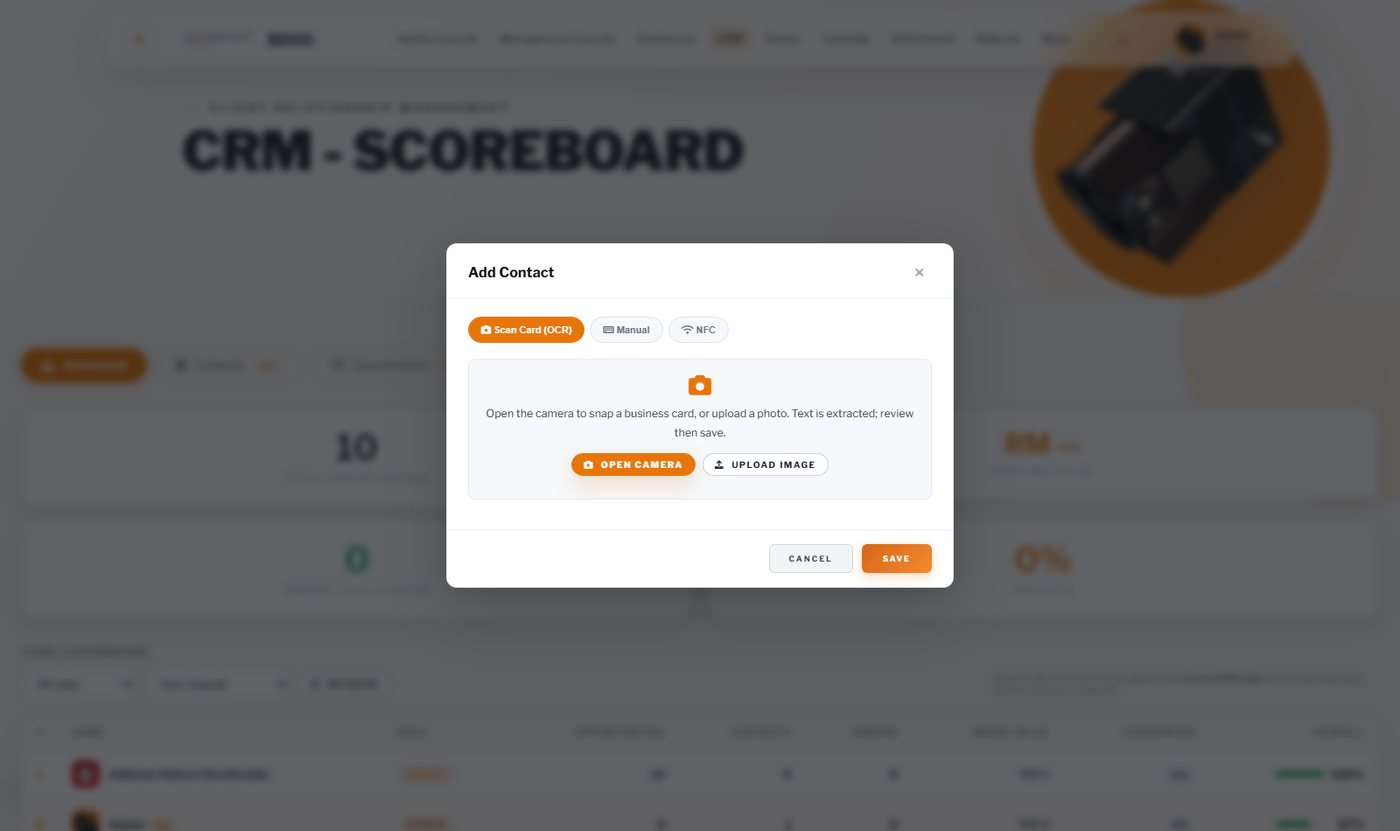
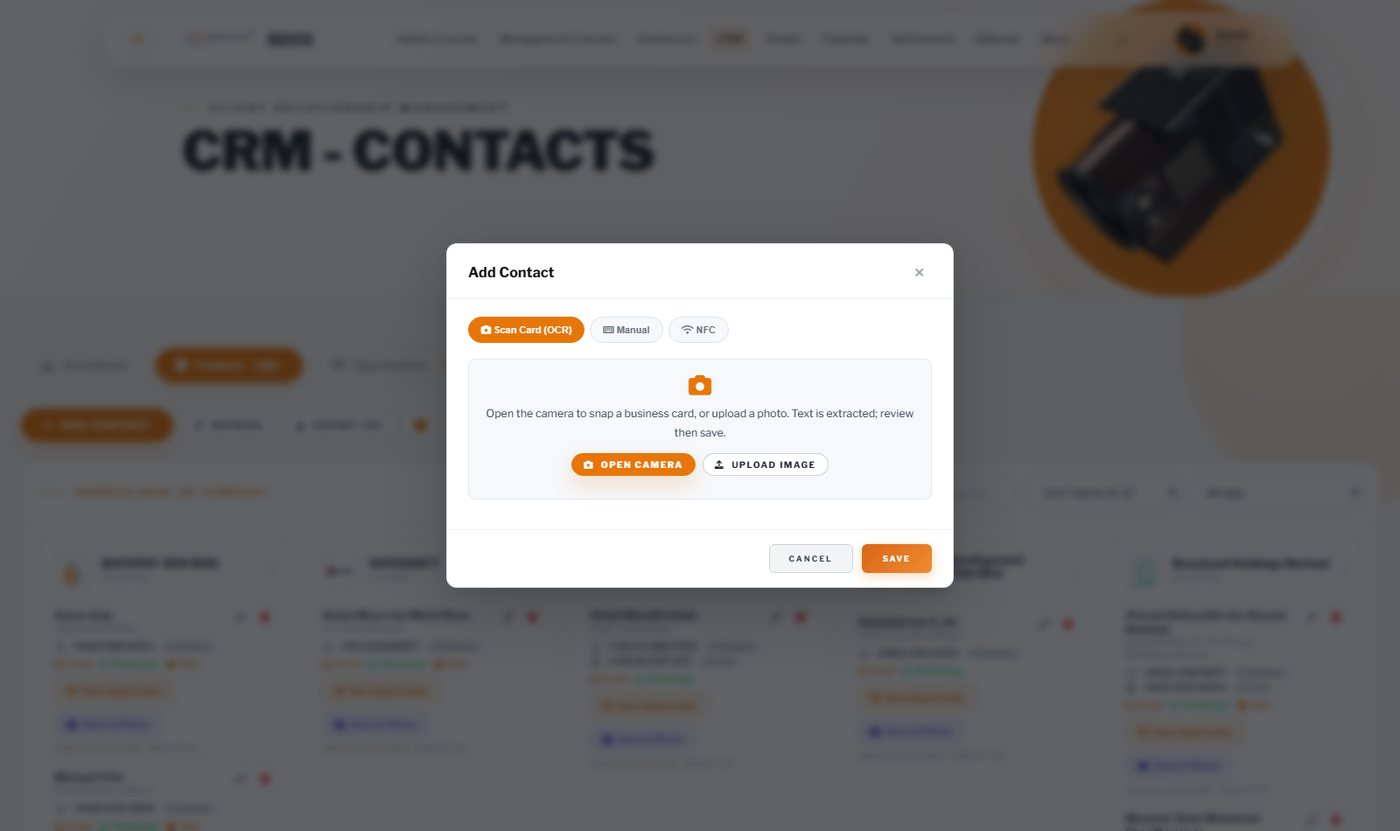
Add the CRM contact list and tender intake screens to BDOS
The contact-capture shot now includes the contacts board behind the modal, so
the feature reads in context, and a new screen shows tender intake: upload the
RFP and the title, agency and reference number are detected from it. The BDOS
slideshow is now ten screens and the description covers both.

diff --git a/showcase.html b/showcase.html
@@ -340,13 +340,13 @@ footer{background:var(--dark);color:#fff;padding:64px 9% 26px;}
     </div>
 
     <div class="masonry-item reveal" data-cat="photography"
-         data-pages="UDE_BDOS_1.jpg|UDE_BDOS_2.jpg|UDE_BDOS_3.jpg|UDE_BDOS_4.jpg|UDE_BDOS_5.jpg|UDE_BDOS_6.jpg|UDE_BDOS_7.jpg|UDE_BDOS_8.jpg|UDE_BDOS_9.jpg"
+         data-pages="UDE_BDOS_1.jpg|UDE_BDOS_2.jpg|UDE_BDOS_3.jpg|UDE_BDOS_4.jpg|UDE_BDOS_5.jpg|UDE_BDOS_6.jpg|UDE_BDOS_7.jpg|UDE_BDOS_8.jpg|UDE_BDOS_9.jpg|UDE_BDOS_10.jpg"
          data-label="BDOS — Business Development Portal"
          data-link="https://bdos.uzmadigitalearth.app/"
          data-link-label="Visit Live Site">
       <div class="mi-media">
         <img src="UDE_BDOS_1.jpg" alt="BDOS — Business Development Portal">
-        <div class="mi-badge">9 pages</div>
+        <div class="mi-badge">10 pages</div>
         <div class="mi-overlay">
           <div class="mi-icon"><svg width="19" height="19" viewBox="0 0 24 24" fill="none" stroke="currentColor" stroke-width="2"><circle cx="11" cy="11" r="8"/><path d="m21 21-4.35-4.35"/></svg></div>
           <div class="mi-label">View Slideshow</div>
@@ -362,9 +362,10 @@ footer{background:var(--dark);color:#fff;padding:64px 9% 26px;}
           <tr><td class="mi-meta-label">Database</td><td class="mi-meta-value">AWS PostgreSQL · psycopg2 pooling</td></tr>
           <tr><td class="mi-meta-label">Auth</td><td class="mi-meta-value">JWT · bcrypt password hashing</td></tr>
           <tr><td class="mi-meta-label">Contact Capture</td><td class="mi-meta-value">Scan Card (OCR) · Manual · NFC tap</td></tr>
+          <tr><td class="mi-meta-label">Tender Intake</td><td class="mi-meta-value">Upload RFP → auto-detect title, agency &amp; reference</td></tr>
           <tr><td class="mi-meta-label">AI</td><td class="mi-meta-value">Gemini vision → Claude vision fallback → on-device OCR</td></tr>
           <tr><td class="mi-meta-label">Deployment</td><td class="mi-meta-value">Docker · GitHub Actions → EC2</td></tr>
-          <tr><td class="mi-meta-label">Description</td><td class="mi-meta-value desc">A full business-development operating system for Geospatial AI, replacing scattered spreadsheets with one hub. Its standout feature is <strong>contact capture</strong>: snap or upload a business card and the AI reads it — Gemini vision first, falling back to Claude vision and then on-device OCR — then auto-fills name, company, title, email, mobile, office phone, website and address for review before saving, even fetching the company logo from the card crop or the company website. An NFC mode adds a contact by tapping a supported card on an Android phone. <strong>CRM</strong> tracks leads, contacts and the opportunity pipeline through prospecting → qualification → proposal → negotiation → won. <strong>Qualification</strong> scores every discovery entry server-side against five criteria (named decision, decision maker, budget, procurement route, urgency) for a 0–10 score, with red flags such as &ldquo;no decision maker&rdquo; or &ldquo;send proposal first&rdquo;. <strong>Tender Hub</strong> carries a tender from workspace to to-do list, strategy-to-win, AI-assisted proposal drafting and the bidbook. Plus quotations, budget, after-action reviews, a BD calendar, a daily news signal feed across Malaysian business media, a team scoreboard, live reporting with PDF/CSV export, NFC business-card capture and an admin console. Backed by a 14-table PostgreSQL schema and a 34-route FastAPI service shaped to mirror the previous Firebase API, so the front end migrated with a one-line base-URL change.</td></tr>
+          <tr><td class="mi-meta-label">Description</td><td class="mi-meta-value desc">A full business-development operating system for Geospatial AI, replacing scattered spreadsheets with one hub. Its standout feature is <strong>contact capture</strong>: snap or upload a business card and the AI reads it — Gemini vision first, falling back to Claude vision and then on-device OCR — then auto-fills name, company, title, email, mobile, office phone, website and address for review before saving, even fetching the company logo from the card crop or the company website. An NFC mode adds a contact by tapping a supported card on an Android phone. <strong>CRM</strong> tracks leads, contacts and the opportunity pipeline through prospecting → qualification → proposal → negotiation → won. <strong>Qualification</strong> scores every discovery entry server-side against five criteria (named decision, decision maker, budget, procurement route, urgency) for a 0–10 score, with red flags such as &ldquo;no decision maker&rdquo; or &ldquo;send proposal first&rdquo;. <strong>Tender Hub</strong> starts by ingesting the RFP itself — upload the PDF and the title, agency and reference number are detected for you — then carries the tender through set team, an AI-generated to-do list, strategy-to-win and AI-assisted proposal drafting into the bidbook. Plus quotations, budget, after-action reviews, a BD calendar, a daily news signal feed across Malaysian business media, a team scoreboard, live reporting with PDF/CSV export, NFC business-card capture and an admin console. Backed by a 14-table PostgreSQL schema and a 34-route FastAPI service shaped to mirror the previous Firebase API, so the front end migrated with a one-line base-URL change.</td></tr>
         </table>
         <a href="https://bdos.uzmadigitalearth.app/" target="_blank" rel="noopener" class="mi-desc-link">
           <svg width="11" height="11" viewBox="0 0 24 24" fill="none" stroke="currentColor" stroke-width="2.5"><path d="M18 13v6a2 2 0 0 1-2 2H5a2 2 0 0 1-2-2V8a2 2 0 0 1 2-2h6"/><polyline points="15 3 21 3 21 9"/><line x1="10" y1="14" x2="21" y2="3"/></svg>
